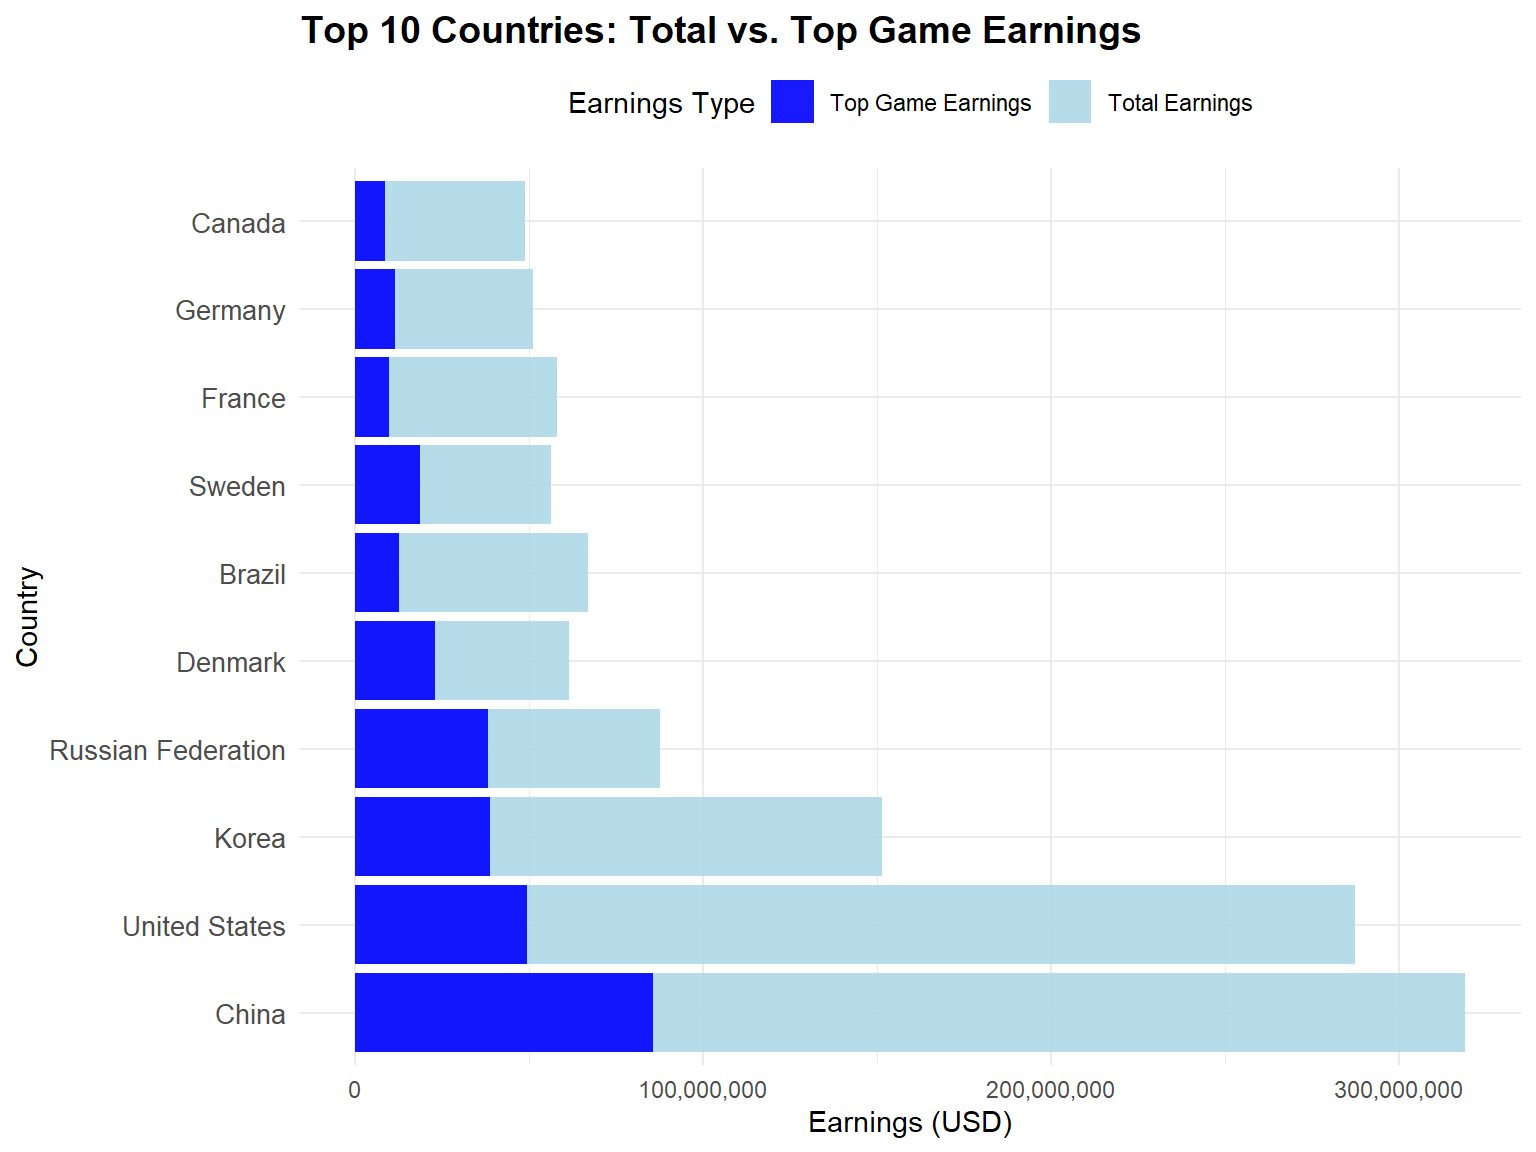
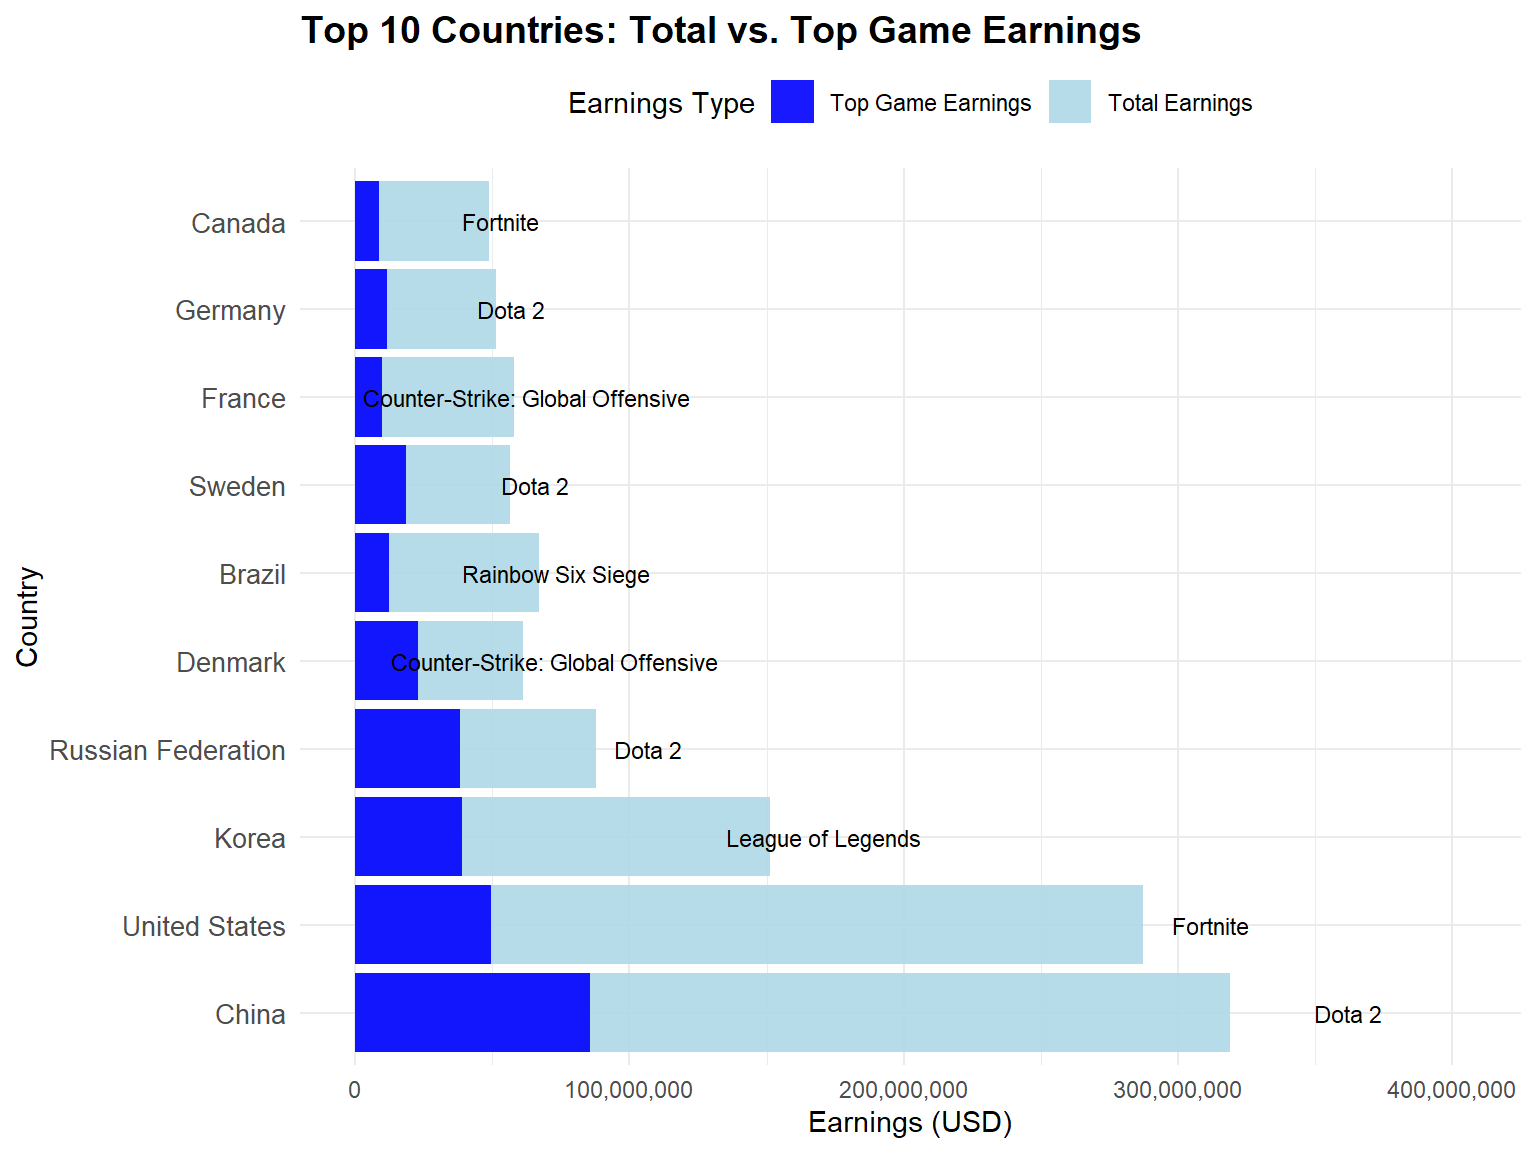
mark top game

diff --git a/report.html b/report.html
@@ -721,33 +721,40 @@ top_countries &lt;- country_overall %&gt;%
     Top_Game_Percent = round((Top_Game_Earnings / Total_Earnings) * 100, 2)  
   )
 
-# convert to long format
 top_countries_long &lt;- top_countries %&gt;%
-  select(Country, Total_Earnings, Top_Game_Earnings) %&gt;%
+  select(Country, Total_Earnings, Top_Game_Earnings, Top_Game) %&gt;%
   pivot_longer(
     cols = c(Total_Earnings, Top_Game_Earnings),
     names_to = &quot;Earnings_Type&quot;,
     values_to = &quot;Earnings&quot;
   ) %&gt;%
   mutate(
-    Earnings_Type = ifelse(Earnings_Type == &quot;Total_Earnings&quot;, &quot;Total Earnings&quot;, &quot;Top Game Earnings&quot;)
+    Earnings_Type = ifelse(Earnings_Type == &quot;Total_Earnings&quot;, &quot;Total Earnings&quot;, &quot;Top Game Earnings&quot;),
+    Game_Label = ifelse(Earnings_Type == &quot;Top Game Earnings&quot;, Top_Game, NA)  # Only add label for top game earnings
   )
 
 head(top_countries_long)</code></pre>
-<pre><code>## # A tibble: 6 × 3
-##   Country       Earnings_Type       Earnings
-##   &lt;chr&gt;         &lt;chr&gt;                  &lt;dbl&gt;
-## 1 China         Total Earnings    319027144.
-## 2 China         Top Game Earnings  85737773.
-## 3 United States Total Earnings    287364677.
-## 4 United States Top Game Earnings  49472180.
-## 5 Korea         Total Earnings    151431685.
-## 6 Korea         Top Game Earnings  38839897.</code></pre>
+<pre><code>## # A tibble: 6 × 5
+##   Country       Top_Game          Earnings_Type       Earnings Game_Label       
+##   &lt;chr&gt;         &lt;chr&gt;             &lt;chr&gt;                  &lt;dbl&gt; &lt;chr&gt;            
+## 1 China         Dota 2            Total Earnings    319027144. &lt;NA&gt;             
+## 2 China         Dota 2            Top Game Earnings  85737773. Dota 2           
+## 3 United States Fortnite          Total Earnings    287364677. &lt;NA&gt;             
+## 4 United States Fortnite          Top Game Earnings  49472180. Fortnite         
+## 5 Korea         League of Legends Total Earnings    151431685. &lt;NA&gt;             
+## 6 Korea         League of Legends Top Game Earnings  38839897. League of Legends</code></pre>
 <p>This bar chart compares the total earnings (yellow) and earnings from
 the top game (red) for the top 10 countries in e-sports from the
 top-performing game in each country.</p>
 <pre class="r"><code>ggplot(top_countries_long, aes(x = reorder(Country, -Earnings), y = Earnings, fill = Earnings_Type)) +
   geom_bar(stat = &quot;identity&quot;, position = &quot;identity&quot;, alpha = 0.9) +
+  geom_text(
+    aes(label = Game_Label), 
+    position = position_stack(vjust = 0.5),  # Position label in the middle of the &quot;Top Game Earnings&quot; bar
+    na.rm = TRUE, 
+    size = 3, 
+    color = &quot;black&quot;  # Adjust text color if needed
+  ) +
   coord_flip() +
   scale_fill_manual(values = c(&quot;blue&quot;, &quot;#ADD8E6&quot;)) +
   scale_y_continuous(labels = scales::comma) +
@@ -761,12 +768,12 @@ top-performing game in each country.</p>
     legend.position = &quot;top&quot;,
     axis.text.y = element_text(size = 10)
   )</code></pre>
-<p><img src="report_files/figure-html/unnamed-chunk-9-1.png" width="80%" />
-From the chart, we can see China leads significantly in both categories,
-with the United States and Korea following. The dominance of top games
-in total earnings varies, with some countries like Korea showing a
-higher reliance on top games, while others like Denmark and Brazil have
-a more diversified earnings distribution.</p>
+<p><img src="report_files/figure-html/unnamed-chunk-9-1.png" width="80%" /></p>
+<p>From the chart, we can see China leads significantly in both
+categories, with the United States and Korea following. The dominance of
+top games in total earnings varies, with some countries like Korea
+showing a higher reliance on top games, while others like Denmark and
+Brazil have a more diversified earnings distribution.</p>
 <p>The second chart focuses on compare the percentage of revenue
 generated by the top game for each country. It reveals the dependency of
 each country’s esports economy on a single title.</p>
@@ -841,8 +848,8 @@ ggplot(top_players, aes(x = reorder(Player_Name, Total_Earnings), y = Total_Earn
     axis.text.x = element_text(size = 10),
     axis.text.y = element_text(size = 10)
   )</code></pre>
-<p><img src="report_files/figure-html/unnamed-chunk-12-1.png" width="80%" />
-All of the top 10 highest-earning players have earned their fortunes
+<p><img src="report_files/figure-html/unnamed-chunk-12-1.png" width="80%" /></p>
+<p>All of the top 10 highest-earning players have earned their fortunes
 from Dota 2, with Johan Sundstein (N0tail) leading the list at over $7
 million, highlighting the game’s massive prize pools and dominance in
 esports earnings.</p>
@@ -1606,44 +1613,44 @@ data |&gt;
 <tbody>
 <tr class="odd">
 <td align="left">(Intercept)</td>
-<td align="right">7.06966</td>
+<td align="right">7.06972</td>
 <td align="right">0.22271</td>
-<td align="right">31.74434</td>
+<td align="right">31.74450</td>
 <td align="right">0.00000</td>
 </tr>
 <tr class="even">
 <td align="left">Year</td>
-<td align="right">0.13124</td>
+<td align="right">0.13121</td>
 <td align="right">0.04362</td>
-<td align="right">3.00867</td>
+<td align="right">3.00810</td>
 <td align="right">0.00268</td>
 </tr>
 <tr class="odd">
 <td align="left">Total_Players</td>
 <td align="right">0.00515</td>
 <td align="right">0.00032</td>
-<td align="right">16.12129</td>
+<td align="right">16.12167</td>
 <td align="right">0.00000</td>
 </tr>
 <tr class="even">
 <td align="left">Total_Tournaments</td>
 <td align="right">0.01189</td>
 <td align="right">0.00163</td>
-<td align="right">7.28223</td>
+<td align="right">7.28193</td>
 <td align="right">0.00000</td>
 </tr>
 <tr class="odd">
 <td align="left">Frequency</td>
-<td align="right">0.35935</td>
+<td align="right">0.35936</td>
 <td align="right">0.03912</td>
-<td align="right">9.18681</td>
+<td align="right">9.18703</td>
 <td align="right">0.00000</td>
 </tr>
 <tr class="even">
 <td align="left">Total_Players:Total_Tournaments</td>
 <td align="right">-0.00001</td>
 <td align="right">0.00000</td>
-<td align="right">-12.03059</td>
+<td align="right">-12.03035</td>
 <td align="right">0.00000</td>
 </tr>
 </tbody>
@@ -1657,16 +1664,16 @@ summary(model_interaction)</code></pre>
 ## 
 ## Residuals:
 ##     Min      1Q  Median      3Q     Max 
-## -8.4377 -2.1930  0.0397  2.1297  9.9356 
+## -8.4379 -2.1930  0.0396  2.1298  9.9350 
 ## 
 ## Coefficients:
 ##                                   Estimate Std. Error t value Pr(&gt;|t|)    
 ## (Intercept)                      7.070e+00  2.227e-01  31.744  &lt; 2e-16 ***
-## Year                             1.312e-01  4.362e-02   3.009  0.00268 ** 
-## Total_Players                    5.147e-03  3.193e-04  16.121  &lt; 2e-16 ***
-## Total_Tournaments                1.189e-02  1.633e-03   7.282 5.94e-13 ***
-## Frequency                        3.593e-01  3.912e-02   9.187  &lt; 2e-16 ***
-## Total_Players:Total_Tournaments -8.050e-06  6.691e-07 -12.031  &lt; 2e-16 ***
+## Year                             1.312e-01  4.362e-02   3.008  0.00268 ** 
+## Total_Players                    5.147e-03  3.193e-04  16.122  &lt; 2e-16 ***
+## Total_Tournaments                1.189e-02  1.633e-03   7.282 5.96e-13 ***
+## Frequency                        3.594e-01  3.912e-02   9.187  &lt; 2e-16 ***
+## Total_Players:Total_Tournaments -8.050e-06  6.691e-07 -12.030  &lt; 2e-16 ***
 ## ---
 ## Signif. codes:  0 &#39;***&#39; 0.001 &#39;**&#39; 0.01 &#39;*&#39; 0.05 &#39;.&#39; 0.1 &#39; &#39; 1
 ## 
